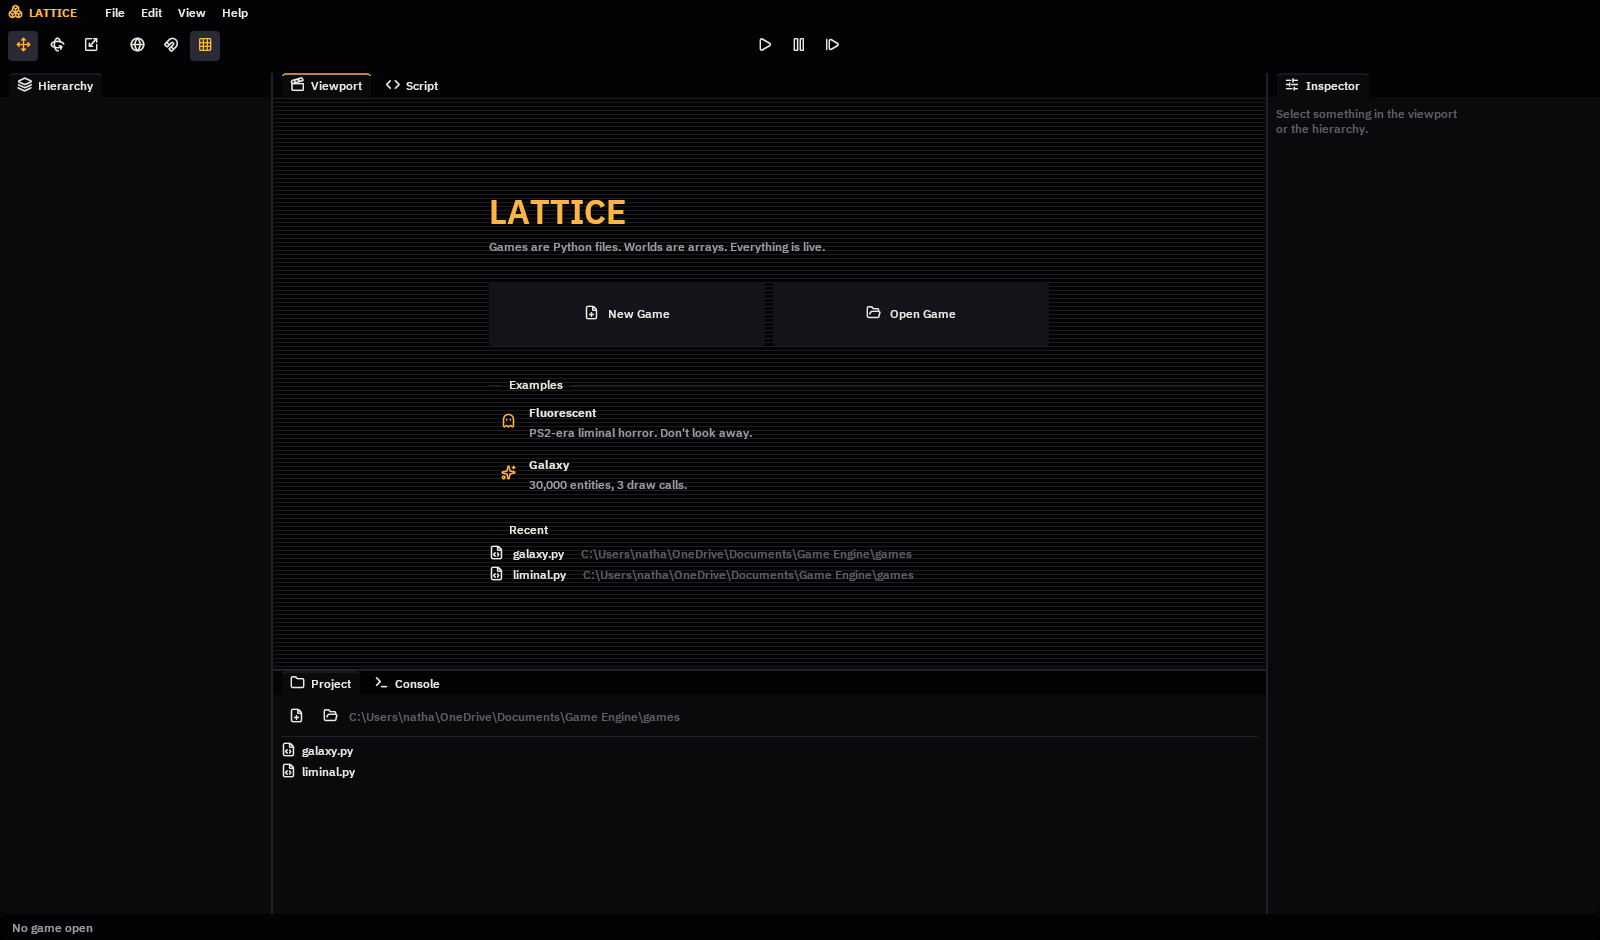
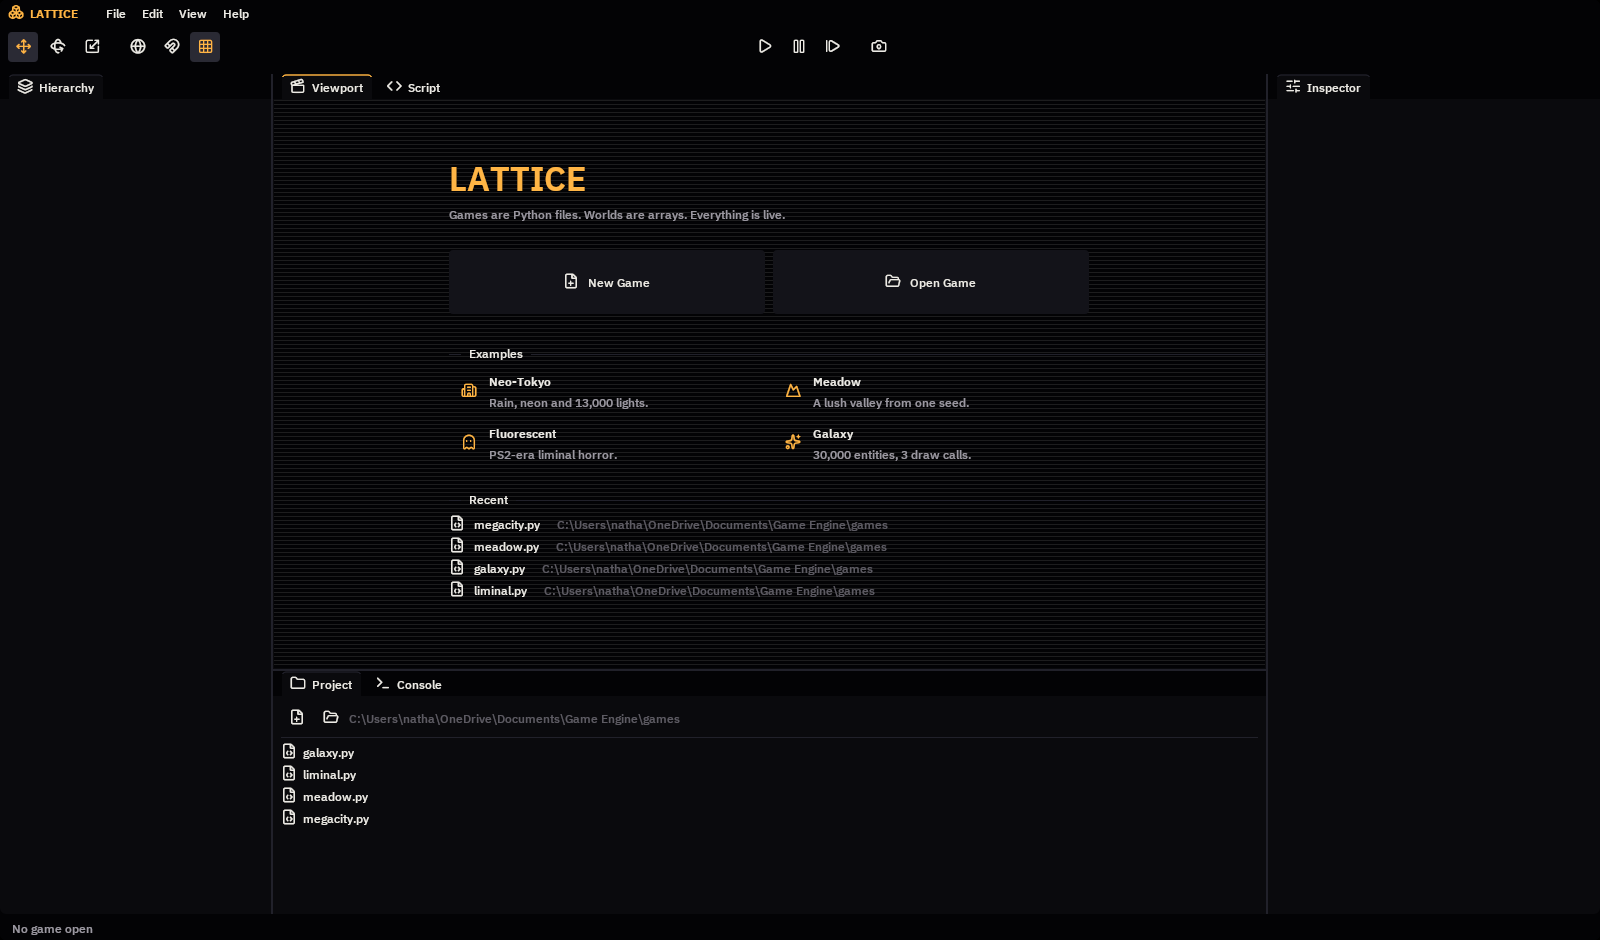
Fix ImGui ID conflict in Recent; show new examples on the launcher
Recent entries with the same file name (e.g. a game and the copy unpacked
from its playable screenshot) shared an ImGui ID, which 1.92 flags on hover.
IDs now use the full path, Recent records the original .png instead of the
unpacked copy, and existing lists are de-duplicated on load. The launcher
lists Neo-Tokyo and Meadow in a two-column grid.

diff --git a/src/lattice/editor/__init__.py b/src/lattice/editor/__init__.py
@@ -116,7 +116,8 @@ class Editor:
                                                     axis_thickness=2), orientation="xz")
         self.box = gfx.BoxHelper(thickness=2, color=theme.ACCENT)
         self.scripts, self.script_tab, self.frame_ms, self.layout_done = {}, None, np.zeros(120, np.float32), (HOME / "layout.ini").exists()
-        self.recent = json.loads((HOME / "recent.json").read_text()) if (HOME / "recent.json").exists() else []
+        recent = json.loads((HOME / "recent.json").read_text()) if (HOME / "recent.json").exists() else []
+        self.recent = list(dict.fromkeys(p for p in recent if HOME not in Path(p).parents))  # unique; no unpacked shots
         self.last, self.focus_viewport = time.perf_counter(), True
         self.ensure_target((1280, 720))
         self.canvas.add_event_handler(self.on_event, "key_down", "key_up", "pointer_down", "pointer_up", "pointer_move", order=-100)
@@ -139,8 +140,8 @@ class Editor:
 
     # ------------------------------------------------------------------ project
     def open(self, path):
-        path, playable = Path(path).resolve(), shot.is_shot(path)
-        path = shot.unpack(path) if playable else path
+        source, playable = Path(path).resolve(), shot.is_shot(path)
+        path = shot.unpack(source) if playable else source
         if self.rt:
             self.stop() if self.mode != "edit" else None
             self.rt.close()
@@ -151,7 +152,7 @@ class Editor:
         cam = self.rt.world.camera  # the Scene view starts where the game camera looks from
         f = la.vec_transform_quat((0, 0, -1), cam.local.rotation)
         self.cam_pos, self.yaw, self.pitch = np.array(cam.local.position, float), float(np.arctan2(-f[0], -f[2])), float(np.arcsin(f[1]))
-        self.recent = [str(path)] + [p for p in self.recent if p != str(path)][:7]
+        self.recent = [str(source)] + [p for p in self.recent if p != str(source) and HOME not in Path(p).parents][:7]
         (HOME / "recent.json").write_text(json.dumps(self.recent))
         self.canvas.set_title(f"Lattice · {path.name}")
         self.edit_script(path)
@@ -356,7 +357,7 @@ class Editor:
                 self.open_dialog()
             if imgui.begin_menu(f"{I.HOUSE}  Recent", bool(self.recent)):
                 for p in self.recent:
-                    if item(Path(p).name + f"   {Path(p).parent.name}"):
+                    if item(f"{Path(p).name}   {Path(p).parent.name}###{p}"):
                         self.open(p)
                 imgui.end_menu()
             imgui.separator()
@@ -609,8 +610,8 @@ class Editor:
         dl.add_rect_filled(start, imgui.ImVec2(start.x + avail.x, start.y + avail.y), u32(theme.BG))
         for i in range(0, int(avail.y), 4):  # faint CRT scanlines
             dl.add_line(imgui.ImVec2(start.x, start.y + i), imgui.ImVec2(start.x + avail.x, start.y + i), u32("#ffffff", 0.012))
-        width = min(560, avail.x - 32)
-        imgui.set_cursor_screen_pos(imgui.ImVec2(start.x + (avail.x - width) / 2, start.y + max(avail.y * 0.16, 24)))
+        width = min(640, avail.x - 32)
+        imgui.set_cursor_screen_pos(imgui.ImVec2(start.x + (avail.x - width) / 2, start.y + max(avail.y * 0.1, 24)))
         imgui.begin_group()
         imgui.push_font(Fonts.title, 44)
         imgui.text_colored(hex4(theme.ACCENT), "LATTICE")
@@ -625,16 +626,20 @@ class Editor:
             self.open_dialog()
         imgui.dummy(imgui.ImVec2(0, 16))
         imgui.separator_text("Examples")
-        examples = (("liminal.py", I.GHOST, "Fluorescent", "PS2-era liminal horror. Don't look away."),
+        examples = (("megacity.py", I.BUILDING_2, "Neo-Tokyo", "Rain, neon and 13,000 lights."),
+                    ("meadow.py", I.MOUNTAIN, "Meadow", "A lush valley from one seed."),
+                    ("liminal.py", I.GHOST, "Fluorescent", "PS2-era liminal horror."),
                     ("galaxy.py", I.SPARKLES, "Galaxy", "30,000 entities, 3 draw calls."))
-        for file, icon, title, blurb in examples:
-            if (EXAMPLES / file).exists() and self.card(file, icon, title, blurb, width):
+        for i, (file, icon, title, blurb) in enumerate(e for e in examples if (EXAMPLES / e[0]).exists()):
+            imgui.same_line() if i % 2 else None
+            if self.card(file, icon, title, blurb, width / 2 - 4):
                 self.open(EXAMPLES / file)
         if self.recent:
             imgui.dummy(imgui.ImVec2(0, 8))
             imgui.separator_text("Recent")
             for p in self.recent[:5]:
-                if imgui.selectable(f"{I.FILE_CODE}   {Path(p).name}   ", False)[0]:
+                icon = I.CAMERA if p.lower().endswith(".png") else I.FILE_CODE
+                if imgui.selectable(f"{icon}   {Path(p).name}   ###{p}", False)[0]:
                     self.open(p)
                 imgui.same_line(), imgui.text_colored(hex4(theme.FAINT), str(Path(p).parent))
         imgui.end_group()
